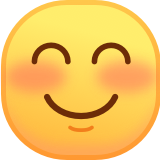
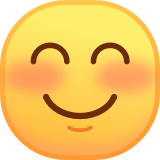
更新图标

diff --git a/lib/constant/emoji.dart b/lib/constant/emoji.dart
@@ -4,7 +4,7 @@ class TUIKitStickerConstData {
   static final List<CustomEmojiFaceData> emojiList = [
     CustomEmojiFaceData(
         name: '4349',
-        icon: "面罩.png",
+        icon: "微笑.png",
         isEmoji: true,
         list: [
           "微笑.png",
